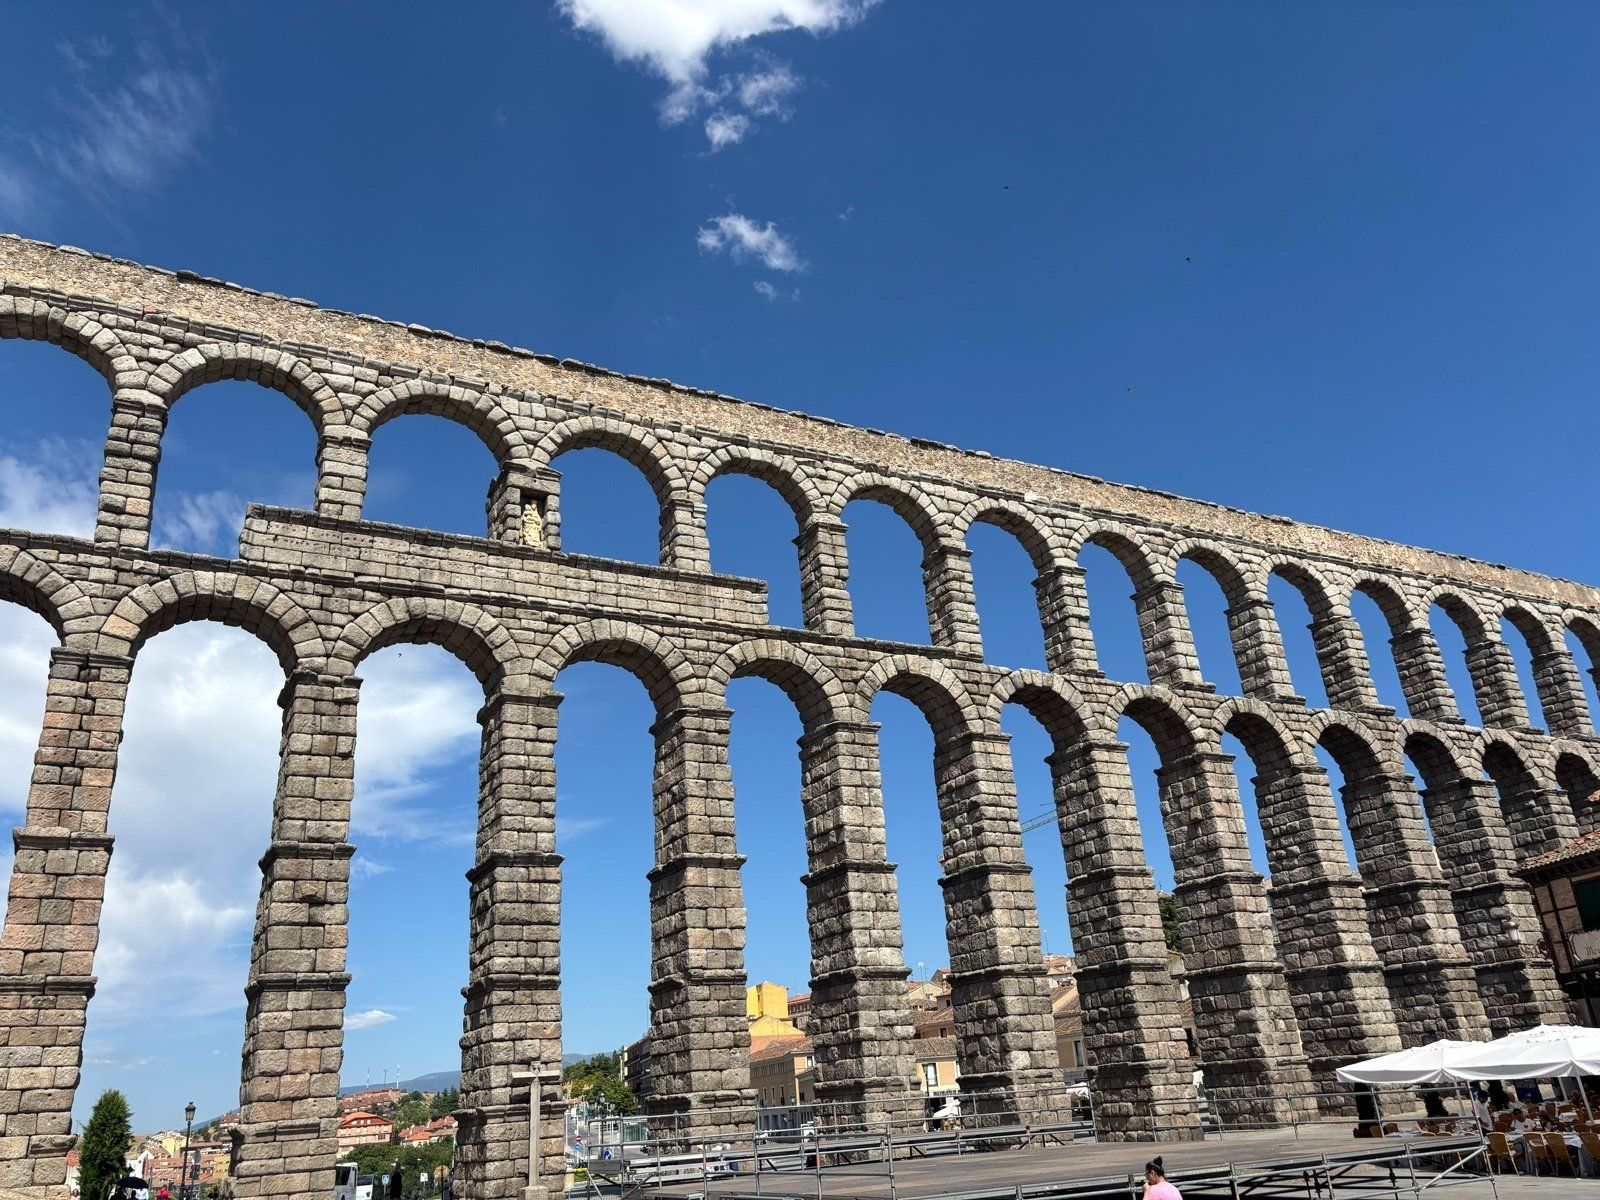
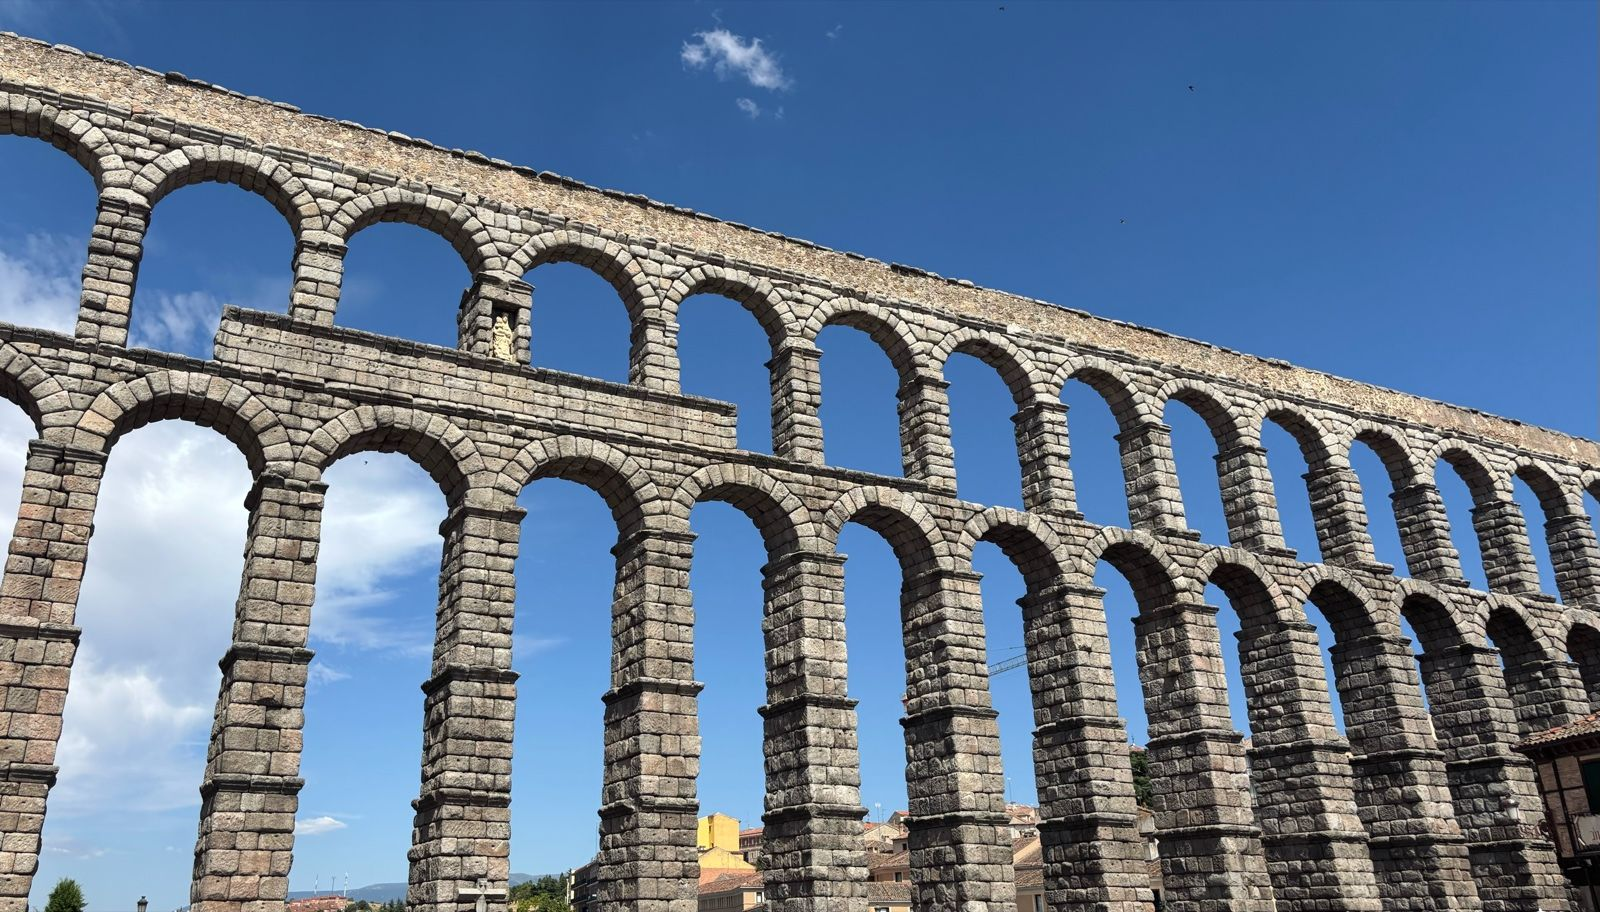
Blog: update Segovia aqueduct photo and move it below the pair

diff --git a/posts/beautiful-moments-in-europe.html b/posts/beautiful-moments-in-europe.html
@@ -376,14 +376,8 @@
                 </div>
 
                 <h3 class="trip-city">Segovia</h3>
-                <p>The Roman aqueduct, the Monastery of El Parral, and the Alc&aacute;zar.</p>
+                <p>The Monastery of El Parral, the Alc&aacute;zar, and the Roman aqueduct.</p>
 
-                <div class="photo-grid cols-1 r43">
-                    <figure class="photo">
-                        <img src="../img/europe/segovia-aqueduct.jpg" alt="The tall granite arches of the Roman aqueduct of Segovia under a blue sky" loading="lazy">
-                        <figcaption>The Roman aqueduct</figcaption>
-                    </figure>
-                </div>
                 <div class="photo-grid cols-2 r43">
                     <figure class="photo">
                         <img src="../img/europe/segovia-el-parral.jpg" alt="A monastery with red-tiled roofs in a green valley below dry golden hills" loading="lazy">
@@ -392,6 +386,12 @@
                     <figure class="photo">
                         <img src="../img/europe/segovia-alcazar.jpg" alt="The Alcazar of Segovia with its square stone keep and pointed slate spires" loading="lazy">
                         <figcaption>The Alc&aacute;zar</figcaption>
+                    </figure>
+                </div>
+                <div class="photo-grid cols-1 landscape">
+                    <figure class="photo">
+                        <img src="../img/europe/segovia-aqueduct.jpg" alt="The tall granite arches of the Roman aqueduct of Segovia under a blue sky" loading="lazy">
+                        <figcaption>The Roman aqueduct</figcaption>
                     </figure>
                 </div>
             </section>
